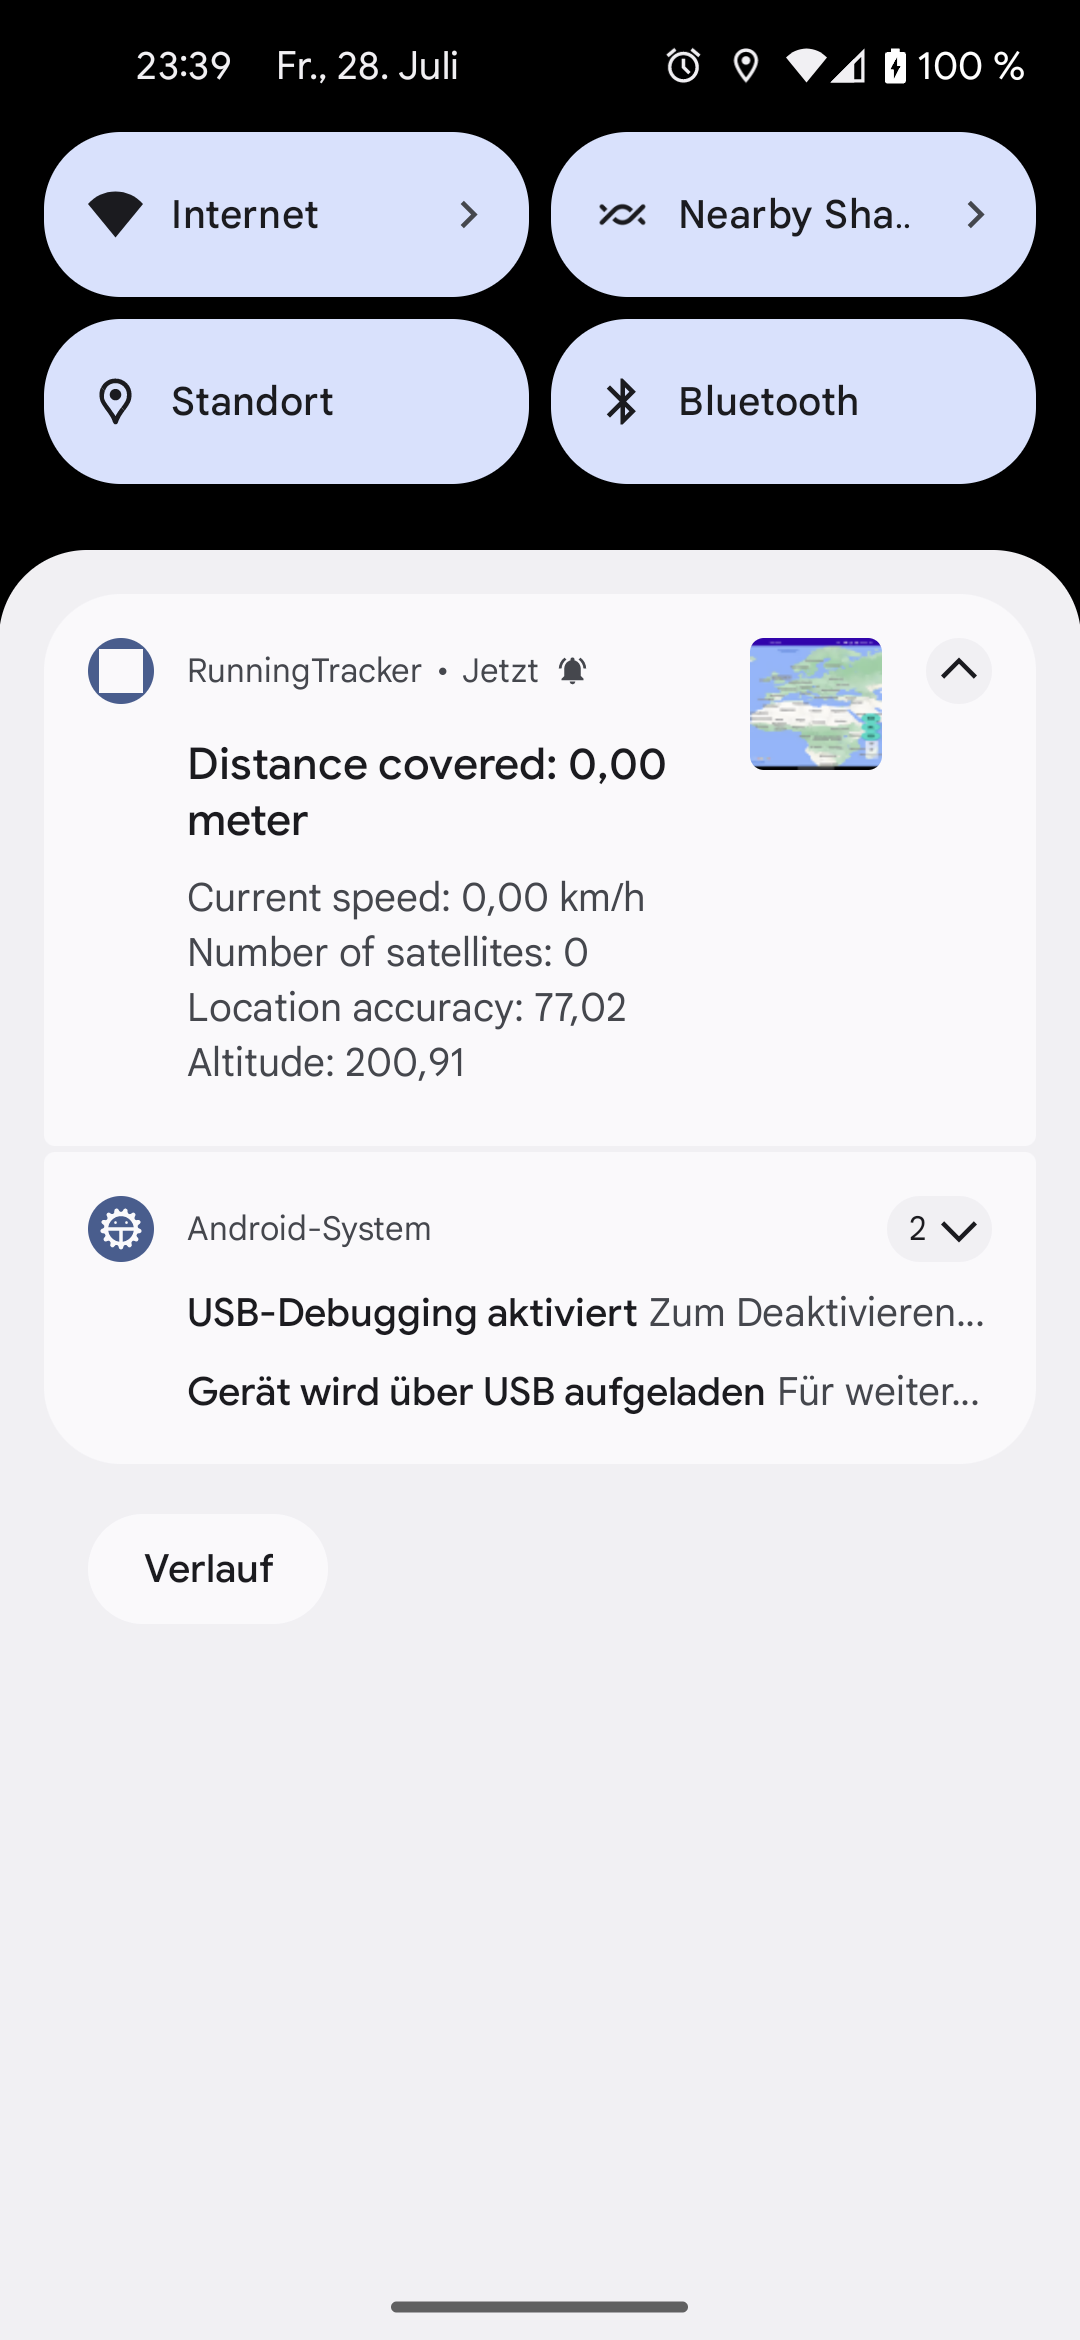
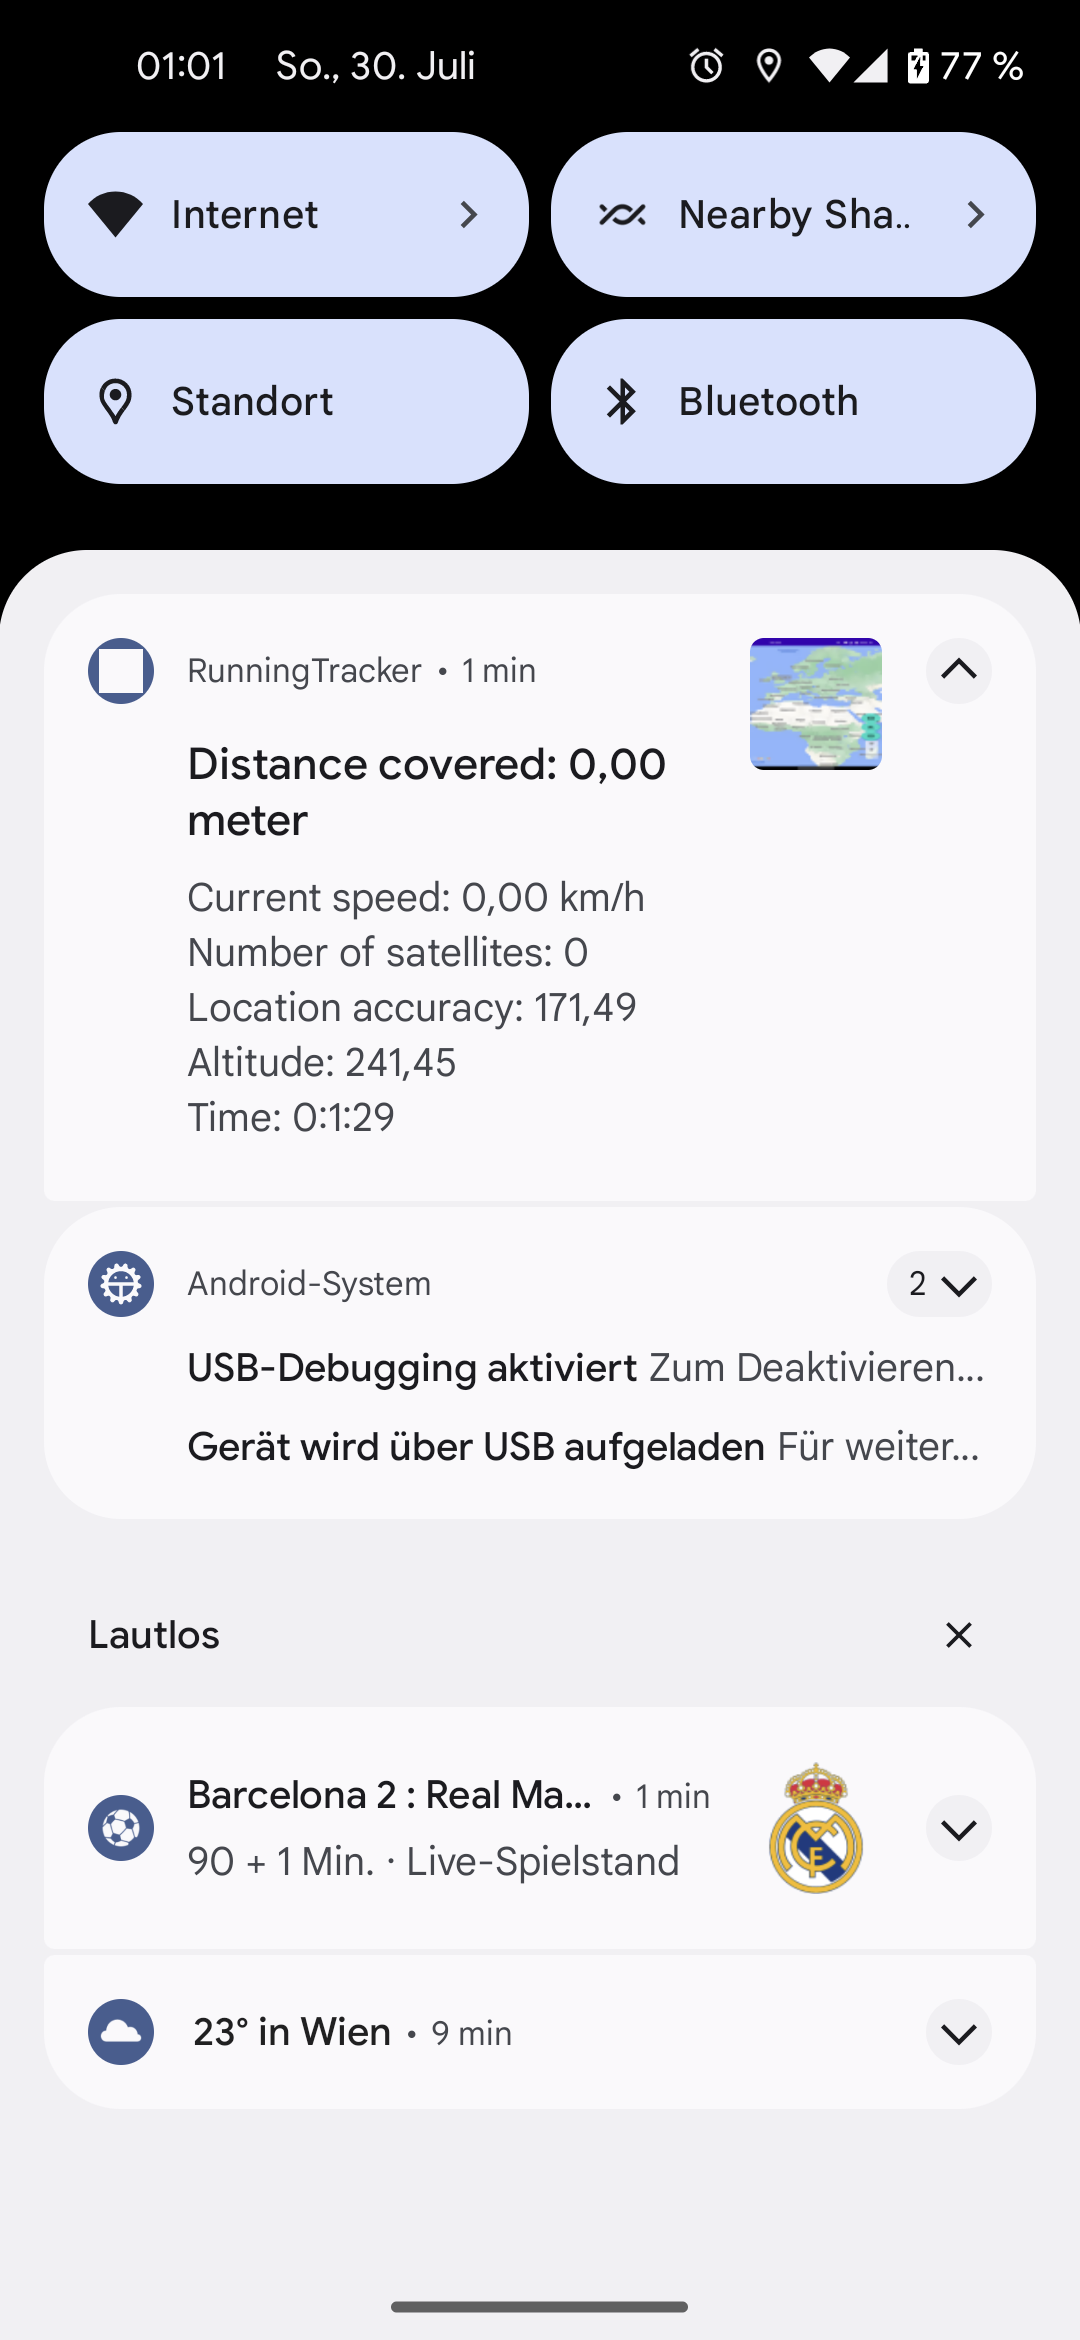
* dialog for saving your last run * changing notification

diff --git a/app/src/main/java/at/co/netconsulting/runningtracker/MapsActivity.java b/app/src/main/java/at/co/netconsulting/runningtracker/MapsActivity.java
@@ -17,8 +17,12 @@ import android.location.LocationManager;
 import android.os.Bundle;
 import android.os.Parcelable;
 import android.provider.Settings;
+import android.text.InputType;
 import android.view.View;
+import android.widget.EditText;
 import android.widget.RelativeLayout;
+import android.widget.TextView;
+
 import androidx.activity.result.ActivityResultCallback;
 import androidx.activity.result.ActivityResultLauncher;
 import androidx.activity.result.contract.ActivityResultContracts;
@@ -39,6 +43,7 @@ import java.util.Iterator;
 import java.util.List;
 import java.util.Map;
 import at.co.netconsulting.runningtracker.databinding.ActivityMapsBinding;
+import at.co.netconsulting.runningtracker.db.DatabaseHandler;
 import at.co.netconsulting.runningtracker.general.BaseActivity;
 import at.co.netconsulting.runningtracker.general.SharedPref;
 import at.co.netconsulting.runningtracker.service.ForegroundService;
@@ -290,6 +295,7 @@ public class MapsActivity extends BaseActivity implements OnMapReadyCallback, Go
                 stopService(new Intent(this, ForegroundService.class));
                 fabStopRecording.setVisibility(View.INVISIBLE);
                 fabStartRecording.setVisibility(View.VISIBLE);
+                createAlertDialog();
                 break;
             case R.id.fabStatistics:
                 Intent intentStatistics = new Intent(MapsActivity.this, StatisticsActivity.class);
@@ -300,6 +306,33 @@ public class MapsActivity extends BaseActivity implements OnMapReadyCallback, Go
                 this.startActivity(intentSettings);
                 break;
         }
+    }
+
+    private void createAlertDialog() {
+        final EditText taskEditText = new EditText(this);
+        AlertDialog dialog = new AlertDialog.Builder(this)
+                .setTitle("Save exercise and comment it?")
+                .setMessage("Comments on your last exercise")
+                .setView(taskEditText)
+                .setPositiveButton("Save", new DialogInterface.OnClickListener() {
+                    @Override
+                    public void onClick(DialogInterface dialog, int which) {
+                        String task = String.valueOf(taskEditText.getText());
+                        DatabaseHandler db = new DatabaseHandler(getApplicationContext());
+                        int lastEntryOfRun = db.getLastEntry();
+                        db.updateComment(task, lastEntryOfRun);
+                    }
+                })
+                .setNegativeButton("Cancel", new DialogInterface.OnClickListener() {
+                    @Override
+                    public void onClick(DialogInterface dialog, int which) {
+                        DatabaseHandler db = new DatabaseHandler(getApplicationContext());
+                        int lastEntryOfRun = db.getLastEntry();
+                        db.deleteLastRun(lastEntryOfRun);
+                    }
+                })
+                .create();
+        dialog.show();
     }
 
     private class DataBroadcastReceiver extends BroadcastReceiver {

diff --git a/app/src/main/java/at/co/netconsulting/runningtracker/db/DatabaseHandler.java b/app/src/main/java/at/co/netconsulting/runningtracker/db/DatabaseHandler.java
@@ -12,6 +12,7 @@ import java.io.FileWriter;
 import java.util.ArrayList;
 import java.util.List;
 import at.co.netconsulting.runningtracker.pojo.Run;
+import timber.log.Timber;
 
 public class DatabaseHandler extends SQLiteOpenHelper {
     private static final int DATABASE_VERSION = 2;
@@ -172,9 +173,22 @@ public class DatabaseHandler extends SQLiteOpenHelper {
         return kalmanFilterList;
     }
 
+    public void updateComment(String comment, int number_of_run) {
+        ContentValues cv = new ContentValues();
+        cv.put(KEY_COMMENT, comment);
+
+        SQLiteDatabase db = this.getWritableDatabase();
+        db.update(TABLE_RUNS, cv, "number_of_run = ?", new String[]{String.valueOf(number_of_run)});
+    }
+
     public void delete() {
         SQLiteDatabase db = this.getWritableDatabase();
         db.delete(TABLE_RUNS, null, null);
+    }
+
+    public void deleteLastRun(int number_of_run) {
+        SQLiteDatabase db = this.getWritableDatabase();
+        db.delete(TABLE_RUNS, "number_of_run = ?", new String[]{String.valueOf(number_of_run)});
     }
 
     public void exportTableContent() {

diff --git a/app/src/main/java/at/co/netconsulting/runningtracker/service/ForegroundService.java b/app/src/main/java/at/co/netconsulting/runningtracker/service/ForegroundService.java
@@ -211,6 +211,7 @@ public class ForegroundService extends Service implements LocationListener {
         latLng = null;
         stopForeground(STOP_FOREGROUND_REMOVE);
         stopSelf();
+        t.cancel();
     }
 
     private void cancelNotification() {

diff --git a/README.md b/README.md
@@ -16,6 +16,8 @@ Start the app and that`s it.
 ![](app/pics/austria.png)
 ![](app/pics/notification.png)
 ![](app/pics/settings.png)
+![](app/pics/comment_dialog.png)
+![](app/pics/screen_lock.png)
 
 ## Contributing
 
